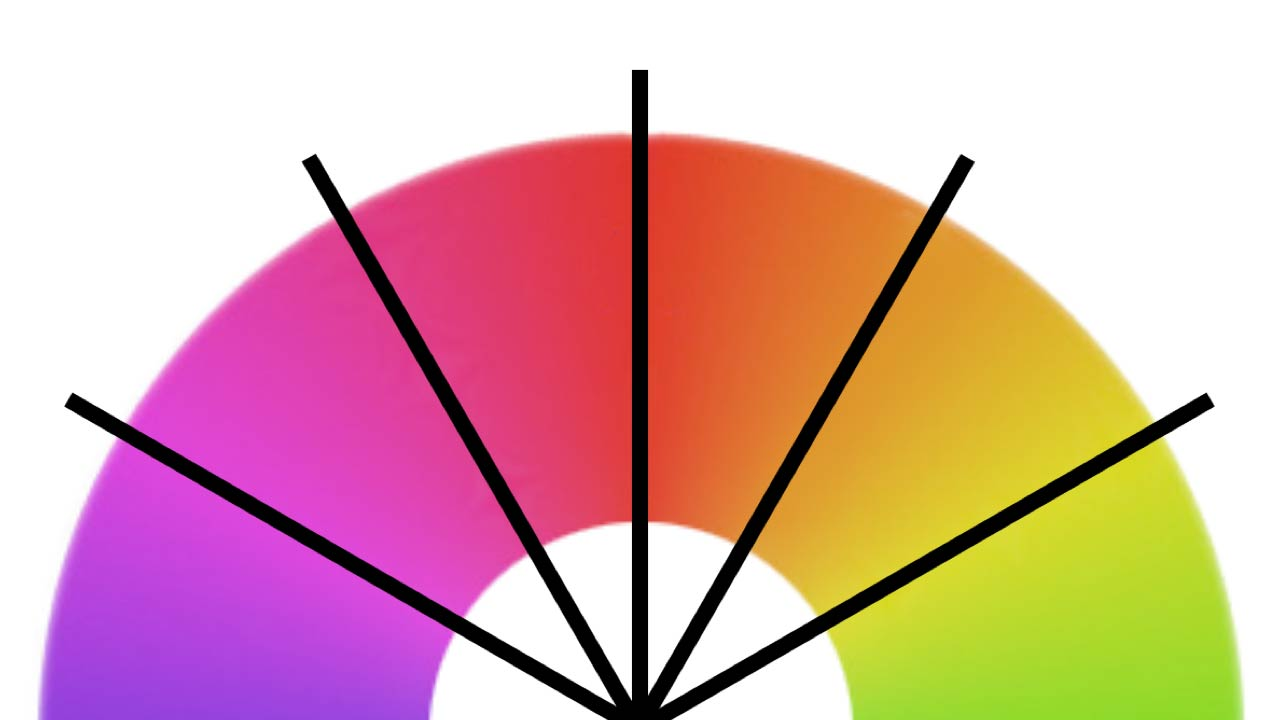
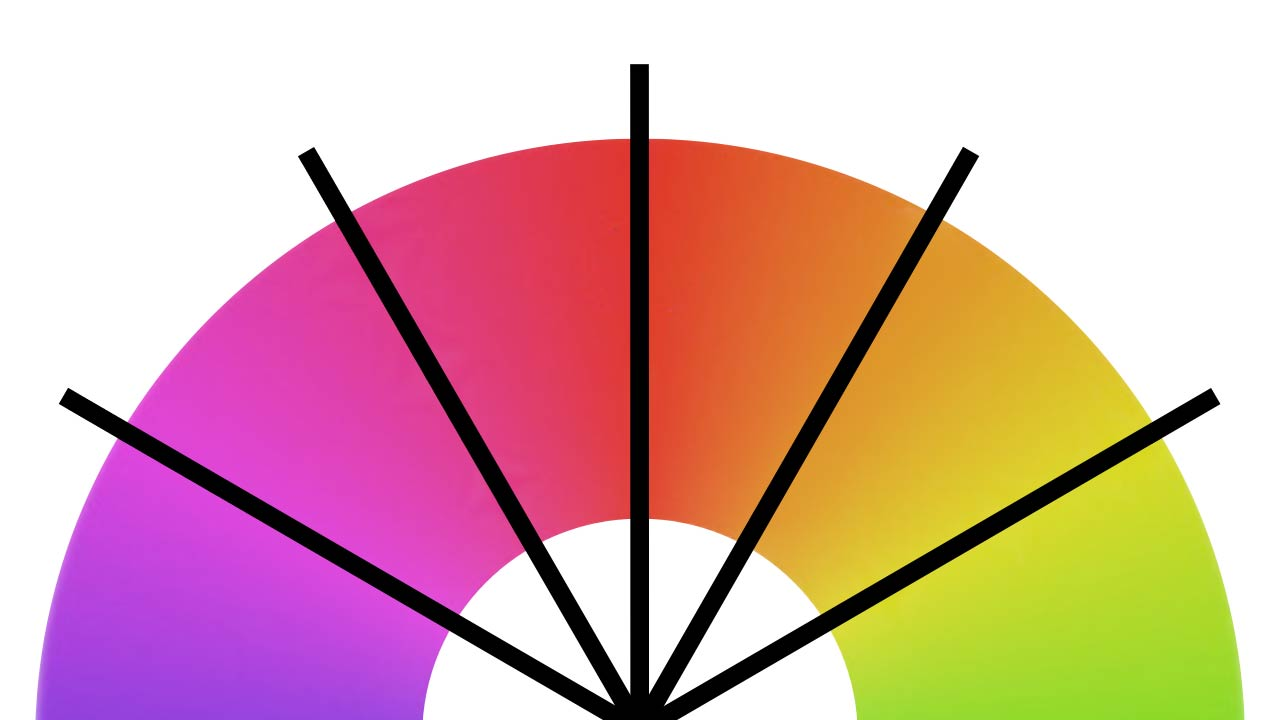
Update Take 5 featured hero (#309)
* Rename Take 5 hero

Change blitz to featured.

* Update Take 5 hero

Use featured instead of campaign.

* Update hero path

Add take5 to path.

* Update artwork

Cleanup color wheel edges.

diff --git a/home/hero.html b/home/hero.html
@@ -2,7 +2,7 @@
 layout: raw
 permalink: /static/home/hero/
 live_coding: false
-current_promo: hero-take5-campaign.html
+current_promo: take5/hero-take5-featured.html
 ---
 {% if page.live_coding == true %}
 {% include hero-livecoding.html %}

diff --git a/tests/hero.html b/tests/hero.html
@@ -3,7 +3,7 @@ layout: test-home-minimal
 permalink: /tests/hero
 ---
 
-{% include hero-take5-campaign.html %}
+{% include take5/hero-take5-featured.html %}
 
 
 <div style="margin-top: 80px">
